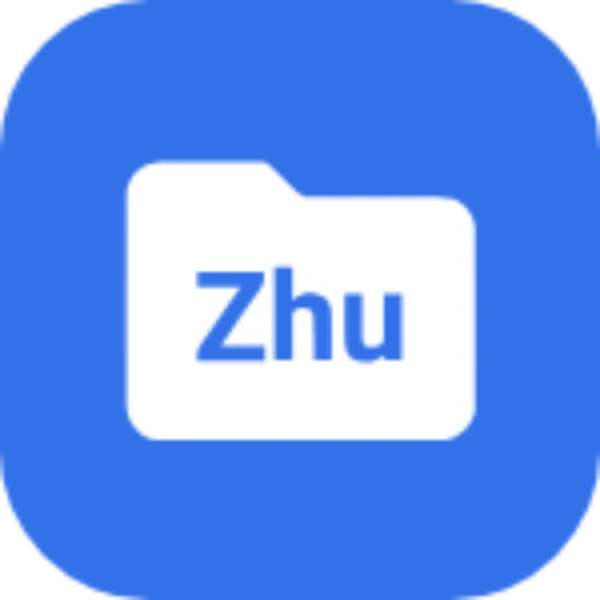
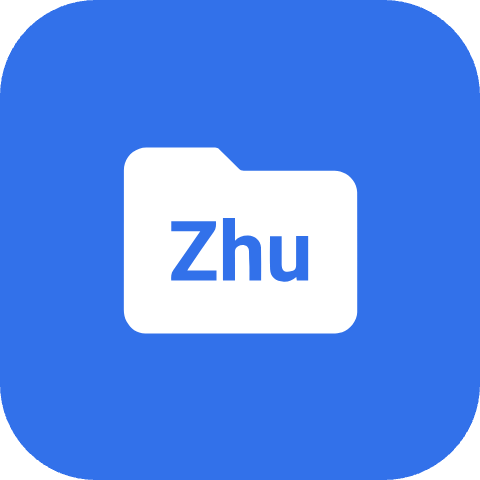
网页图标调整

diff --git a/docs/main.js b/docs/main.js
@@ -33,7 +33,7 @@ document.getElementById('main-content').innerHTML = `
     <div class="hero-bg"></div>
     <div class="container">
       <div class="hero-content" style="max-width:680px;margin:0 auto;text-align:center">
-        <img src="icon.png" alt="烛文件" class="animate-scale" style="width:128px;max-width:100%;height:auto;aspect-ratio:1;border-radius:28px;margin:0 auto 24px;display:block;box-shadow:var(--zf-shadow-float)">
+        <img src="icon.png" alt="烛文件" class="animate-scale" style="width:140px;max-width:100%;height:auto;aspect-ratio:1;margin:0 auto 24px;display:block">
         <h1 class="hero-title animate-in">烛文件</h1>
         <p class="hero-desc animate-in delay-1">Kotlin 编写的开源 Android 文件管理器<br>开源免费，美观强大</p>
         <div class="hero-actions animate-in delay-3" style="justify-content:center">